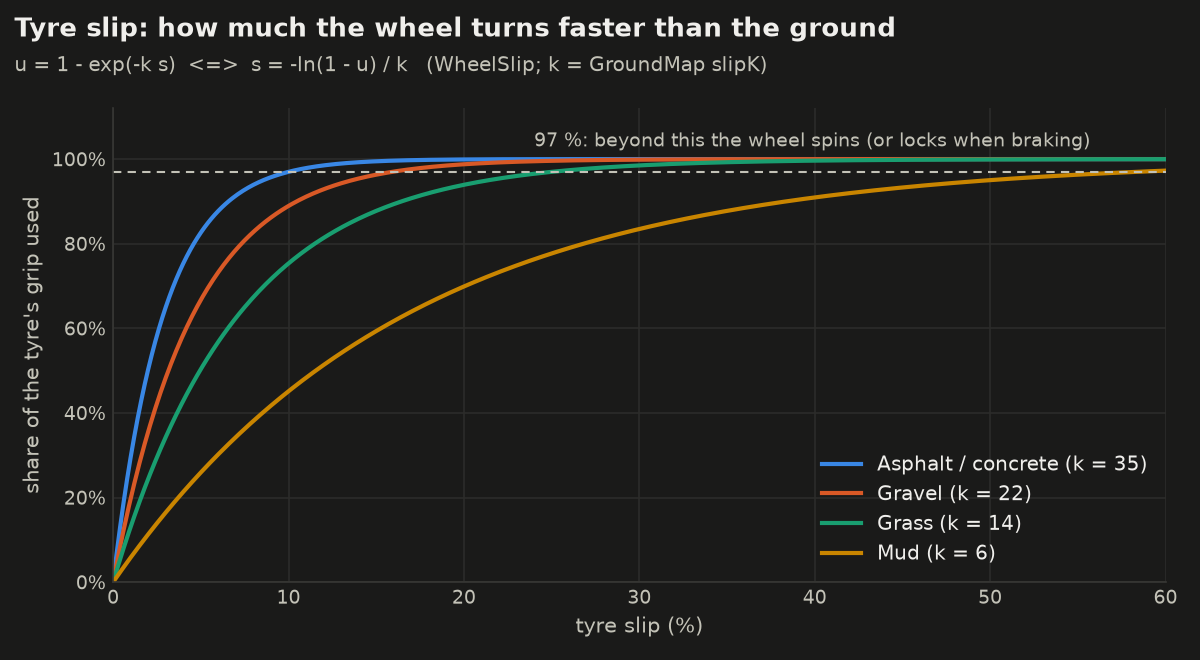
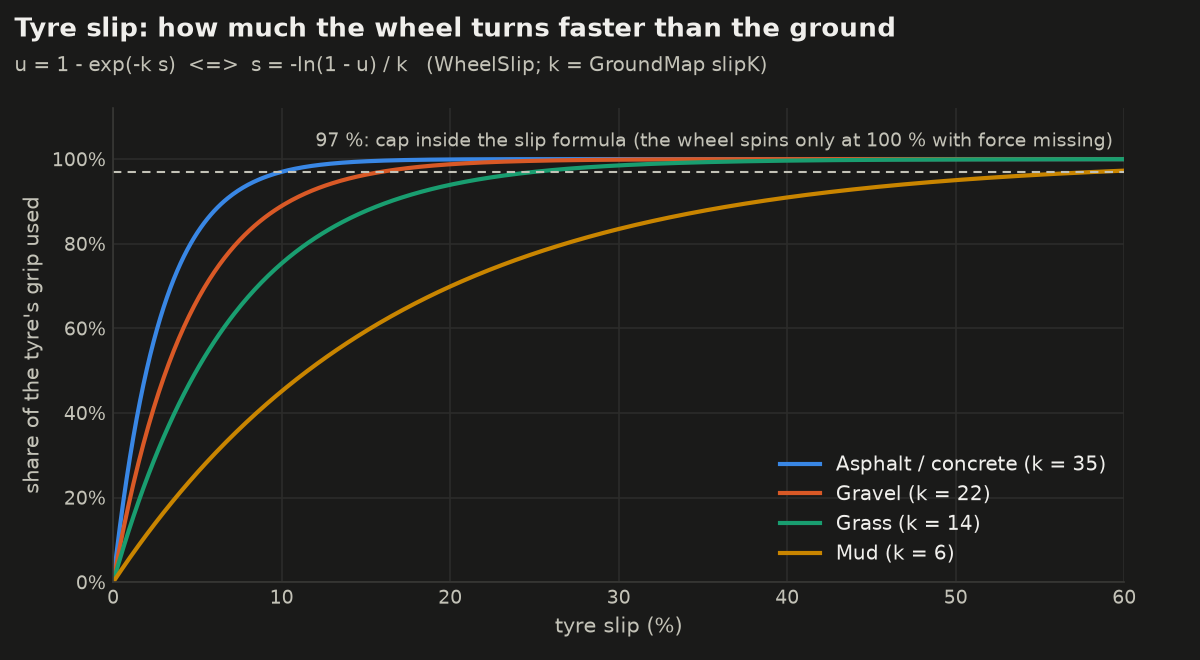
PHYSICS.md checked against the code: Ackermann sign, spin condition, steering ratio, bump stop, parking brake, test P fixed

diff --git a/tools/physics_charts.py b/tools/physics_charts.py
@@ -181,7 +181,7 @@ def chart_slip(th, mode):
     for t in leg.get_texts():
         t.set_color(th["ink"])
     ax.axhline(0.97, color=th["ink2"], linewidth=1, linestyle=(0, (4, 3)))
-    label(ax, th, 24, 1.03, "97 %: beyond this the wheel spins (or locks when braking)", th["ink2"])
+    label(ax, th, 12, 1.03, "97 %: cap inside the slip formula (the wheel spins only at 100 % with force missing)", th["ink2"])
     ax.set_xlim(0, 60); ax.set_ylim(0, 1.12)
     ax.yaxis.set_major_formatter(matplotlib.ticker.PercentFormatter(1.0))
     title(fig, th, "Tyre slip: how much the wheel turns faster than the ground", "u = 1 - exp(-k s)  <=>  s = -ln(1 - u) / k   (WheelSlip; k = GroundMap slipK)")

diff --git a/docs/PHYSICS.md b/docs/PHYSICS.md
@@ -156,9 +156,9 @@ $$N = N_0 + k\,(x - x_0) + c\,\dot x \qquad\text{with}\qquad c = 2\,\zeta\,\sqrt
 | $c$ | damping, from the damping ratio $\zeta$ and the mass $N_0/g$ the wheel carries | $\zeta = 0.45$ |
 
 The damping ratio 0.45 is below 1 (critical damping) on purpose: a tractor rocks once after a bump and settles; much more damping
-feels like a rigid cart. The natural frequency (how often the body would bounce per second) $f = \frac{1}{2\pi}\sqrt{k g / N_0}$ is about 2.3 Hz:
-$k$ = spring stiffness, $N_0/g$ = the mass on that wheel, $2\pi$ turns radians per second into cycles per second. A **bump stop** stiffens the
-spring tenfold in the last 20 % of its travel. Over the speed bumps (10 cm, test W) the front axle rose 4.8 cm at 8 km/h and 12.5 cm at
+feels like a rigid cart. The natural frequency (how often the body would bounce per second) $f = \frac{1}{2\pi}\sqrt{k g / N_0}$ is 2.25 Hz at the front and 2.37 Hz at the rear:
+$k$ = spring stiffness, $N_0/g$ = the mass on that wheel, $2\pi$ turns radians per second into cycles per second. A **bump stop** adds ten times the
+spring stiffness (eleven times in total) in the last 20 % of the upward travel (compression beyond $1.8 \times 0.15$ m). Over the speed bumps (10 cm, test W) the front axle rose 4.8 cm at 8 km/h and 12.5 cm at
 20 km/h, and the body pitched less than 3°.
 
 <picture>
@@ -192,7 +192,8 @@ $$v_c \leftarrow v_c + \mathrm{clamp}\big(v_t - v_c,\; -a\,\Delta t,\; a\,\Delta
 | stick against the motion (braking), STOP button | 2.5 m/s² |
 | stick partly back | 1.25 m/s² |
 
-$v_t$ = stick share × top speed (50 km/h forward, 15 km/h reverse; in manual, the selected gear's speed, §11). The command
+$v_t$ = stick share × top speed (50 km/h forward, 15 km/h reverse; in manual, the selected gear's speed, §11); the stick has a
+dead zone of 0.08, and its share is measured from there: $(|\text{stick}| - 0.08) / 0.92$. The command
 is kept within ±1.5 m/s of the real speed $v$ (**anti wind-up**): on a climb the engine can't follow, and without this limit
 the command would run far ahead and the tractor would surge when the slope ends.
 
@@ -306,7 +307,8 @@ $k$ is high on asphalt (the tyre grips at little slip) and low in mud. The wheel
 $$v_\text{wheel} = \frac{v_\text{ground}}{1 - s} \;\text{(driving)} \qquad v_\text{wheel} = v_\text{ground}\,(1 - s) \;\text{(braking)}$$
 
 ($v_\text{wheel}$ = speed of the tyre's tread, $v_\text{ground}$ = speed of the ground under it) and it follows that target with a
-0.08 s time constant. Above $u = 97\,\%$ with a shortfall the wheel **spins** (it runs up
+0.08 s time constant. ($u$ is capped at 97 % inside the slip formula, so $s$ stays finite: $\ln(1-u)$ would be $-\infty$ at
+$u = 1$.) When a tyre uses its whole grip ($u > 99.5\,\%$) and force is still missing (a shortfall, §7), the wheel **spins** (it runs up
 by 0.6-3.5 m/s, twice as fast through an open diff, whose other wheel stands) or **locks** when braking. The engine speed follows
 the rear wheels' speed, so wheel spin shows on the rev counter, and spinning wheels throw clods of the ground's colour.
 
@@ -338,13 +340,13 @@ $m\,g\,C_{rr}$ within 0.1 kN on every surface (e.g. mud: 11.0 kN measured, 11.0 
 The front wheels turn to the **Ackermann** angles: both point at the same turning centre on the rear axle line, so the inner wheel
 turns more than the outer one. For the steering angle $\delta$ of a virtual centre wheel:
 
-$$R = \frac{L}{\tan\delta} \qquad \delta_{L,R} = \arctan\frac{L}{R \mp t/2}$$
+$$R = \frac{L}{\tan\delta} \qquad \delta_L = \arctan\frac{L}{R + t/2} \qquad \delta_R = \arctan\frac{L}{R - t/2}$$
 
 | Symbol | Meaning | Value |
 |---|---|---|
 | $\delta$ | steering angle of a virtual wheel in the middle of the front axle | up to 40° |
 | $R$ | turning radius (turning centre to the middle of the rear axle) | m |
-| $\delta_L$, $\delta_R$ | angles of the left / right front wheel ($\mp$: minus for the left, plus for the right in a right turn) | |
+| $\delta_L$, $\delta_R$ | angles of the left / right front wheel; $R$ and $\delta$ are positive in a right turn, so the right wheel is on the inside ($R - t/2$, the smaller radius) and turns more; in a left turn both are negative and it is the other way round | |
 | $L$ | wheelbase | 2.80 m |
 | $t$ | front track | 1.89 m |
 
@@ -361,8 +363,9 @@ $$\delta_\text{max}(v) = \min\!\left(40°,\; \arctan\frac{\omega_\text{max}\,L}{
 | $\omega_\text{max}$ | the allowed yaw rate: the comfort cap, or the one that keeps the sideways acceleration $\omega v$ at 2.5 m/s² | |
 | $v$ | speed | m/s |
 
-The stick input is squared (fine control near the centre); the wheels turn at 35°/s, or follow the hands directly when the
-steering wheel is held (13 turns of the wheel per turn of the road wheels, about 2.9 turns lock to lock).
+The stick input is squared (fine control near the centre); the wheels turn at 35°/s, or six times as fast, following the hands,
+when the steering wheel is held. Steering ratio 13: the steering wheel turns 13° for every 1° at the road wheels, so from full left
+to full right ($2 \times 40° \times 13 = 1040°$) it makes about 2.9 turns.
 
 <picture>
   <source media="(prefers-color-scheme: dark)" srcset="images/physics_steering_dark.png">
@@ -482,7 +485,8 @@ $$a = -\frac{v}{2\,\Delta t} - 20\,(p - p_0)\cdot\hat f \qquad F_\text{lat} \lef
 | 20 | spring strength of the hold | 1/s² |
 | $F_\text{lat}$, $N/g$ | each tyre's sideways force (§6) and the mass on it | |
 
-The first term stops any speed in two steps, the second pulls back to $p_0$ like a stiff spring. All four wheels hold (park lock + front axle engaged). Test G parks on 4.3° and measures 0.0 cm creep in 5 s. A teleport (reset,
+The first term removes half of the remaining speed every step, the second pulls back to $p_0$ like a stiff spring; as while
+driving (§5), the slope and the rolling resistance are compensated on top, so the hold doesn't have to fight gravity. All four wheels hold (park lock + front axle engaged). Test G parks on 4.3° and measures 0.0 cm creep in 5 s. A teleport (reset,
 lesson set-up) clears $p_0$; a stale one once pulled the tractor back towards its old spot.
 
 ## 14. Validation
@@ -493,7 +497,7 @@ physics by hand, and logs every scenario. It runs after every change to the vehi
 | Test | What | Result | Expected |
 |---|---|---|---|
 | B | full throttle on the flat | 0 → 50 km/h in 14 s, gears B2 → E4 | comfort rate 1 m/s² (→ 13.9 s) |
-| C, P | release / STOP from 20 km/h | stopped in 2.2 s | 2.5 m/s² → 2.2 s (coasting 7.0 s) |
+| P | STOP button at 20.1 km/h | stopped in 2.2 s | 2.5 m/s² → 2.23 s (coasting at 0.8 m/s² would take 7.0 s) |
 | F | the steepest slope in the world (22.8°) | climbs at ~14 km/h on full power | power-limited, no wheel spin |
 | G | park on 4.3° | 0.0 cm creep in 5 s | no creep |
 | O | rolling resistance per surface | within 0.1 kN of $m g C_{rr}$ | GroundMap values |

diff --git a/docs/DEVLOG.md b/docs/DEVLOG.md
@@ -1451,3 +1451,11 @@ cab frames over budget, ~100 dropped); +1.2-1.5 ms wherever the landscape is in 
 the yard view (land / notrees / notufts / nosky): everything 11.5 ms, without the trees 10.8 (-0.7), without the tufts 11.4 (-0.1),
 without the sky picture 11.3 (-0.2). The trees are the main cost. Possible fixes (not done, user: leave it for now): near-tree
 distance on the Quest 120 -> 60 m, draw the near trees front to back, fewer crown lumps in the Light variant.
+
+**PHYSICS.md checked against the code (user: "check if the math is correct").** Every number recomputed (static loads, natural
+frequencies 2.25 / 2.37 Hz, front weight +12.33 kN, power 150.8 / 144.9 kW, torque rise 33.5 %, gear step 1.1733, fuel 41.0 L/h,
+coolant 385 s, draft 30.39 kN, steering lock 2.08 deg at 50 km/h, braking 5.28 m): all right. Six statements were wrong and are fixed:
+the Ackermann formula had the sign the wrong way round (left R + t/2, right R - t/2); a wheel spins at u > 99.5 % with force missing,
+97 % is only the cap inside the slip formula (also on the slip chart); steering ratio 13 = 13 deg of steering wheel per deg at the road
+wheels; the bump stop adds 10 x k (11 x in total); the parking brake removes half the speed per step (+ slope compensation); the STOP
+result is test P, not C.
